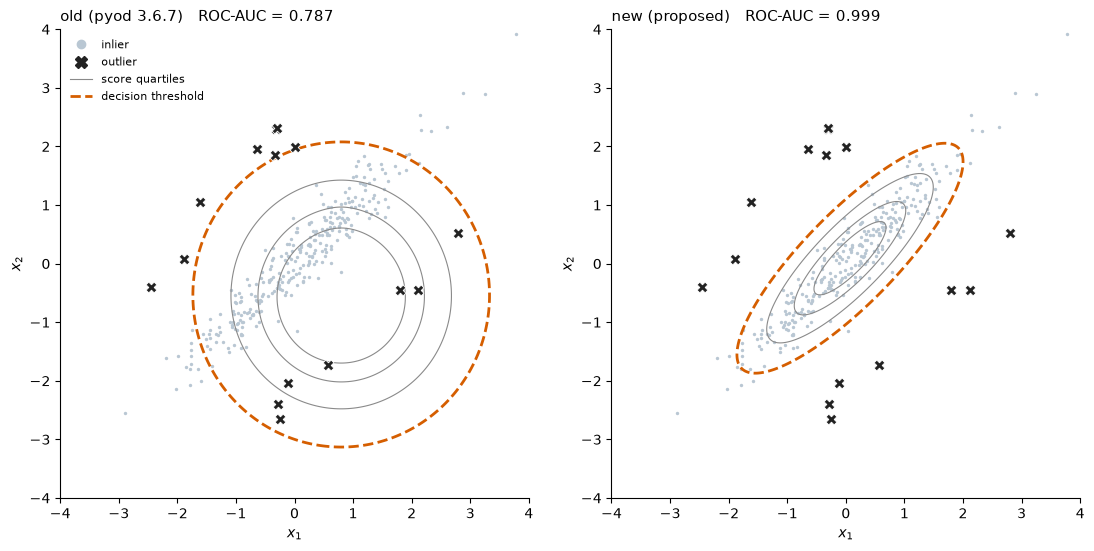
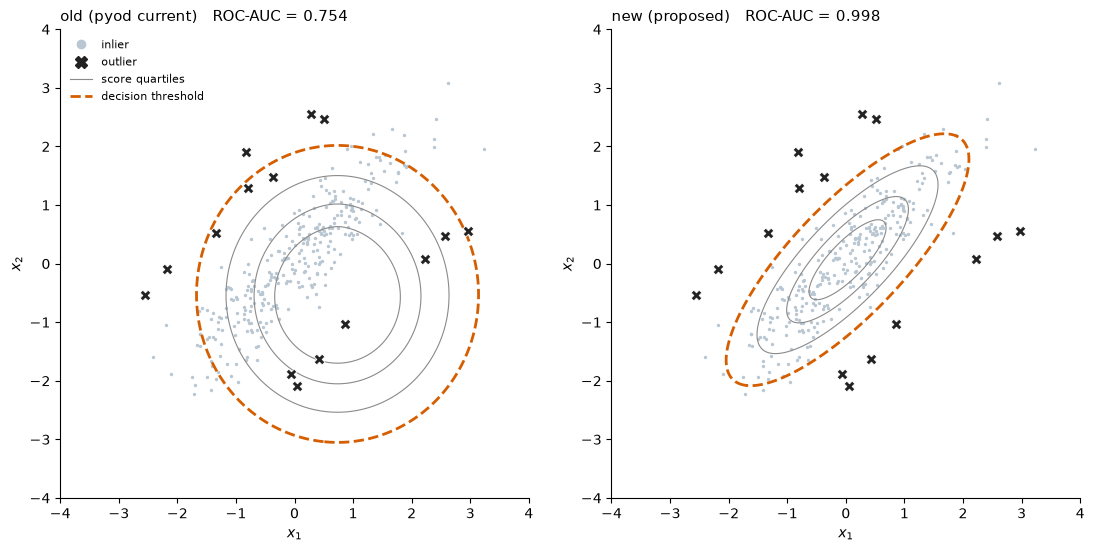
starts restructuring of figures and the correpesponding description

diff --git a/_posts/2027-04-30-pca-pyod.md b/_posts/2027-04-30-pca-pyod.md
@@ -208,6 +208,17 @@ Each term of PyOD's score measures how far a sample is from the tip of an eigenv
 
 The effect is strongest for the minor components, because their terms carry the largest weights $$p/\lambda_i$$. In the extreme case, a sample lies exactly at the tip, $$\mathbf{z} = s_i \mathbf{e}_i$$. For Shyu et al., this is a clear anomaly with score $$1/\lambda_i$$. For PyOD, its distance to the tip is zero, so exactly the term with the largest weight vanishes.
 
+The following figure illustrates this on two correlated features ($$\rho = 0.9$$) with 15 anomalies that break the correlation. With PyOD's score (left), the contours are circles whose center is shifted from the centroid towards the tip $$s_2\mathbf{e}_2$$ of the minor eigenvector, here to the lower right. Anomalies on this side lie close to the tip, so their scores stay below the decision threshold. Anomalies on the opposite side are farther from the tip and are more likely to be detected. Which side is favored depends only on the sign convention. With our [fix](#fix) (right), the contours are ellipses centered at the centroid, so anomalies on both sides are treated equally.
+
+<div class="row mt-3">
+    <div class="col-sm-12 mx-auto">
+        {% include figure.liquid path="assets/img/2027-04-30-pca-pyod/comapred_scores.png" class="img-fluid" %}
+    </div>
+</div>
+<div class="caption">
+    Left: PyOD, shifted towards the minor eigenvector tip. Right: our fix, centered ellipses.
+</div>
+
 <a id="problem-2"></a>
 #### Problem 2: The score is close to the norm of $$\mathbf{z}$$
 
@@ -228,23 +239,26 @@ The norm ignores how the features are correlated, which is exactly the structure
 
 Geometrically speaking, Shyu's contours of equal score are ellipses, stretched along the major and squeezed along the minor components. PyOD's terms have circular contours around the eigenvector tips, which treat all directions alike. Away from the center, their sum looks like circles around the center.
 
+ToDo figure for this problem
+
+
 ### A short example
  
 Consider $$p = 2$$ standardized sensors with correlation $$\rho = 0.95$$, so that $$\lambda_1 = 1.95$$, $$\mathbf{e}_1 = \tfrac{1}{\sqrt 2}(1, 1)$$ and $$\lambda_2 = 0.05$$, $$\mathbf{e}_2 = \tfrac{1}{\sqrt 2}(1, -1)$$. In Shyu's classifier, $$q = r = 1$$. We score a few observations with Shyu's statistics and with PyOD under both signs of $$\mathbf{e}_2$$:
  
-| Observation | | Shyu | PyOD, $$s_2 = +1$$ | PyOD, $$s_2 = -1$$ |
+| Observation | description | PyOD, $$s_2 = +1$$ | PyOD, $$s_2 = -1$$ | soft (Shyu) |
 |---|---|---|---|---|
-| $$0$$ | training mean | 0.00 | 41.03 | 41.03 |
-| $$A = (2, 2)$$ | follows the correlation | 4.10 | 121.88 | 121.88 |
-| $$B = (1.5, -1.5)$$ | breaks the correlation | 90.00 | 47.26 | 127.26 |
-| $$\mathbf{e}_2$$ | tip of the minor eigenvector | 20.00 | 1.45 | 81.45 |
-| $$-\mathbf{e}_2$$ | its mirror image | 20.00 | 81.45 | 1.45 |
+| $$0$$ | training mean | 41.03 | 41.03 | 0.00 |
+| $$A = (2, 2)$$ | follows the correlation | 121.88 | 121.88 | 4.10 |
+| $$B = (1.5, -1.5)$$ | breaks the correlation | 47.26 | 127.26 | 90.00 |
+| $$\mathbf{e}_2$$ | tip of the minor eigenvector | 1.45 | 81.45 | 20.00 |
+| $$-\mathbf{e}_2$$ | its mirror image | 81.45 | 1.45 | 20.00 |
  
 For Shyu et al., $$B$$ is by far the most anomalous sample, and $$A$$ is unremarkable. PyOD with $$s_2 = +1$$ ranks $$A$$ well above $$B$$. Flipping the sign of $$\mathbf{e}_2$$ reverses the order of $$A$$ and $$B$$ and swaps the scores of the two tips. Whichever tip coincides with $$s_2 \mathbf{e}_2$$ scores lower than the training mean itself.
 
 <div class="row mt-3">
     <div class="col-sm-12 mx-auto">
-        {% include figure.liquid path="assets/img/2027-04-30-pca-pyod/example.png" class="img-fluid" %}
+        {% include figure.liquid path="assets/img/2027-04-30-pca-pyod/blog_post_example_scores.png" class="img-fluid" %}
     </div>
 </div>
 <div class="caption">
@@ -272,6 +286,7 @@ None of these proposals has been merged to date. The following table summarizes 
 
 where $$y_i = \mathbf{e}_i^\top \mathbf{z}$$ denotes the projection of the standardized observation $$\mathbf{z}$$ onto eigenvector $$\mathbf{e}_i$$, and $$t_i$$ denotes the output of sklearn's transform ($$t_i = y_i$$ for`whiten=False`, and $$t_i = y_i / \sqrt{\lambda_i}$$ for `whiten=True`)
 
+<a id="fix"></a>
 ## Suggested Fix
 Our fix adopts the projection proposed in #211, but normalizes by the eigenvalues $\lambda_i$ instead of the explained variance ratios. Relative to PyOD 3.6.7, the change is:
 ```diff
@@ -308,6 +323,10 @@ The following figure and video illustrate the difference between the old score (
 </video>
 
 \
+In the video you can see that over time more and more datapoints are added. Some of them are labeled outliers. On the left side the current implementation of PyOD's PCA is displayed. What can be seen is that the euclidean distance to mostly the center of the data is calcualted, but as the eigenvector $$e_3$$ has the lowest variance, the center of the "globe" is moved to the tip of $$e_3$$. The outliers that break the correlation are wrongly classified as normal by PyOD's current implementation.
+On the left side the pruposed implementation is shown. The eclispoide that shows the distribution of data is shown. The datapoints, that break the currelation, are classified correctly as outliers.
+
+
 The patch is available at TODO. We also corrected the misleading comments and added unit tests verifying sign invariance and exact equivalence to the Mahalanobis distance. We will open a pull request against PyOD once the corresponding issue TODO has been assigned, following the project's contribution guidelines.
 
 <a id="impact"></a>
